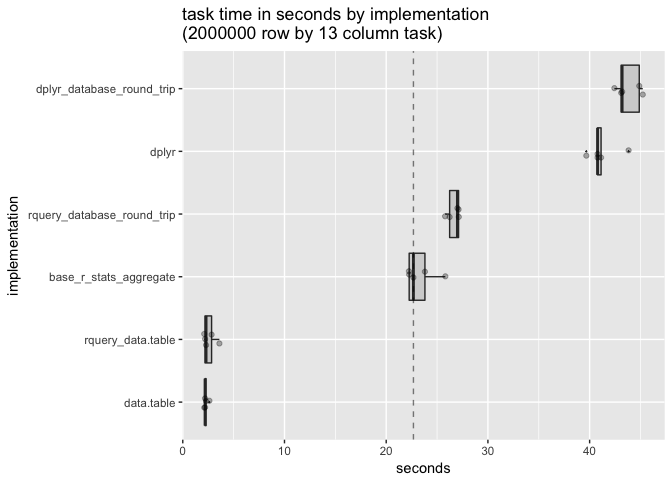
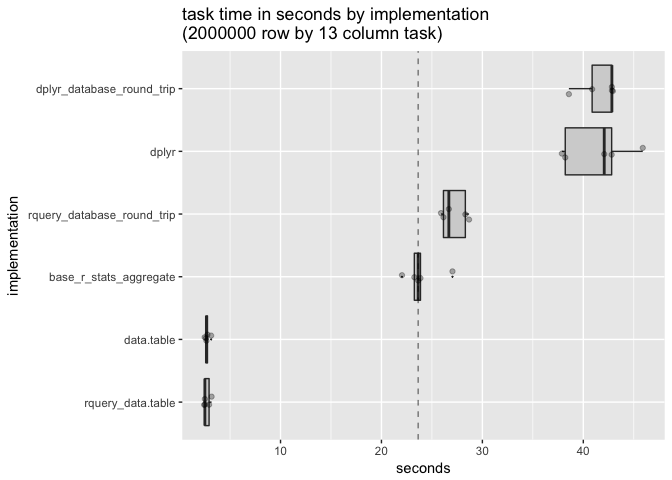
re-run on R3.5 and latest CRAN data.table

diff --git a/extras/data_table.md b/extras/data_table.md
@@ -1,7 +1,7 @@
 data.table backend for rquery
 ================
 John Mount, Win-Vector LLC
-05/31/2018
+06/01/2018
 
 We can work an example similar to the [`rquery`](https://winvector.github.io/rquery/) [example](https://winvector.github.io/rquery/index.html) using a [`data.table`](http://r-datatable.com/) back-end ([`rqdatatable`](https://github.com/WinVector/rqdatatable)).
 
@@ -49,7 +49,7 @@ packageVersion("dplyr")
 packageVersion("data.table")
 ```
 
-    ## [1] '1.10.4.3'
+    ## [1] '1.11.4'
 
 ``` r
 packageVersion("rquery")
@@ -134,8 +134,10 @@ rquery_pipeline %.>%
   DiagrammeR::grViz(.)
 ```
 
-![](data_table_files/figure-markdown_github/printrqueryp-1.png)
+<!--html_preserve-->
 
+<script type="application/json" data-for="htmlwidget-a953ff6e9c99ea0b2309">{"x":{"diagram":"\ndigraph rquery_optree {\n  graph [ layout = dot, rankdir = TB, overlap = prism, compound = true, nodesep = .5, ranksep = .25]\n  edge [decorate = true, arrowhead = normal]\n  node [style=filled, fillcolor=lightgrey]\n\nnode_1 [ shape = \"folder\" , label = \"table(dL; \\l  subjectID,\\l  surveyCategory,\\l  assessmentTotal)\\l\"]\n\nnode_2 [ shape = \"tab\" , label = \"extend(.,\\l  probability := exp(assessmentTotal * scale))\\l\"]\n\nnode_3 [ shape = \"tab\" , label = \"extend(.,\\l  probability := probability / sum(probability),\\l  p= subjectID)\\l\"]\n\nnode_4 [ shape = \"tab\" , label = \"extend(.,\\l  row_rank := rank(),\\l  p= subjectID,\\l  o= probability DESC, surveyCategory DESC)\\l\"]\n\nnode_5 [ shape = \"tab\" , label = \"select_rows(.,\\l   row_rank <= 1)\\l\"]\n\nnode_6 [ shape = \"tab\" , label = \"rename(.,\\l  c(diagnosis = surveyCategory))\\l\"]\n\nnode_7 [ shape = \"tab\" , label = \"select_columns(.,\\l   subjectID, diagnosis, probability)\\l\"]\n\nnode_8 [ shape = \"tab\" , label = \"orderby(., subjectID)\\l\"]\nnode_1 -> node_2 [ label = \".\"]\nnode_2 -> node_3 [ label = \".\"]\nnode_3 -> node_4 [ label = \".\"]\nnode_4 -> node_5 [ label = \".\"]\nnode_5 -> node_6 [ label = \".\"]\nnode_6 -> node_7 [ label = \".\"]\nnode_7 -> node_8 [ label = \".\"]\n}","config":{"engine":"dot","options":null}},"evals":[],"jsHooks":[]}</script>
+<!--/html_preserve-->
 Execute `rquery` pipeline using `data.table` as the implementation.
 
 ``` r
@@ -422,138 +424,138 @@ for(nSubj in 10^(0:7)) {
     ## [1] "nSubj 1"
     ## Unit: milliseconds
     ##                        expr        min         lq       mean     median
-    ##  rquery_database_round_trip  69.029450  74.377429  82.379580  80.474265
-    ##           rquery_data.table   7.127195   8.760327   9.518508   8.897789
-    ##                  data.table   2.051221   2.754013   2.847343   2.853673
-    ##                       dplyr   6.272380   6.516135   8.181771   7.757346
-    ##   dplyr_database_round_trip 144.512507 144.927179 165.566531 173.417670
-    ##      base_r_stats_aggregate   2.615925   2.766526   3.074400   2.816567
+    ##  rquery_database_round_trip  71.138681  83.393231  83.147045  84.833661
+    ##           rquery_data.table   9.608766   9.971618  10.323950  10.195958
+    ##                  data.table   2.075675   2.180758   2.456860   2.497990
+    ##                       dplyr   7.612825  11.489418  12.256675  13.087308
+    ##   dplyr_database_round_trip 147.132946 201.682862 209.952480 217.776187
+    ##      base_r_stats_aggregate   3.085184   3.785181   4.658687   3.806105
     ##          uq        max neval
-    ##   89.696811  98.319946     5
-    ##    9.661508  13.145722     5
-    ##    2.929362   3.648446     5
-    ##   10.109809  10.253185     5
-    ##  174.707281 190.268019     5
-    ##    3.074001   4.098979     5
+    ##   84.865362  91.504292     5
+    ##   10.318854  11.524552     5
+    ##    2.764750   2.765127     5
+    ##   13.905702  15.188124     5
+    ##  227.597322 255.573083     5
+    ##    4.969376   7.647591     5
     ## [1] "******"
     ## [1] "nSubj 10"
     ## Unit: milliseconds
     ##                        expr        min         lq       mean     median
-    ##  rquery_database_round_trip  67.156440  73.060626  82.920443  80.510089
-    ##           rquery_data.table   7.570936   8.689809   9.777107   9.030820
-    ##                  data.table   2.426472   2.456784   2.618393   2.515110
-    ##                       dplyr  10.086663  10.414506  11.512049  10.575411
-    ##   dplyr_database_round_trip 135.769876 142.734392 162.646726 159.879842
-    ##      base_r_stats_aggregate   3.549091   4.463815   4.678033   4.823753
-    ##          uq        max neval
-    ##   96.526495  97.348565     5
-    ##   10.630271  12.963699     5
-    ##    2.765184   2.928414     5
-    ##   11.969104  14.514560     5
-    ##  186.323910 188.525612     5
-    ##    5.153381   5.400124     5
+    ##  rquery_database_round_trip  67.845813  69.336879  81.562058  87.188163
+    ##           rquery_data.table   9.497021   9.934465  15.616941  10.279672
+    ##                  data.table   2.090796   2.190110   2.308872   2.361299
+    ##                       dplyr   9.452232  11.476213  30.016245  11.974590
+    ##   dplyr_database_round_trip 162.622927 186.228870 202.306599 203.067094
+    ##      base_r_stats_aggregate   4.200695   4.735195  11.830658   8.206472
+    ##         uq        max neval
+    ##   88.31182  95.127611     5
+    ##   12.34138  36.032167     5
+    ##    2.40091   2.501245     5
+    ##   12.88391 104.294283     5
+    ##  207.49438 252.119725     5
+    ##   13.50275  28.508181     5
     ## [1] "******"
     ## [1] "nSubj 100"
     ## Unit: milliseconds
     ##                        expr        min         lq       mean     median
-    ##  rquery_database_round_trip  68.280159  73.989883  73.936998  74.659266
-    ##           rquery_data.table   8.375911   8.378464  10.549381   8.692715
-    ##                  data.table   2.315128   2.681626   2.942087   2.686290
-    ##                       dplyr  10.857070  11.261897  13.411790  14.374825
-    ##   dplyr_database_round_trip 138.566279 147.701370 174.968423 194.220404
-    ##      base_r_stats_aggregate   4.273186   4.864971   5.635442   6.170974
+    ##  rquery_database_round_trip  66.815639  73.894296  79.361467  76.052675
+    ##           rquery_data.table   8.229293   8.950303  14.725861   9.802629
+    ##                  data.table   2.786475   3.068548   4.051763   3.070573
+    ##                       dplyr  10.333904  10.484546  16.072997  14.972173
+    ##   dplyr_database_round_trip 148.623101 159.382159 182.954371 200.123005
+    ##      base_r_stats_aggregate   5.082886   5.883054   6.326022   6.077374
     ##          uq        max neval
-    ##   75.820915  76.934769     5
-    ##   12.730262  14.569554     5
-    ##    2.742238   4.285151     5
-    ##   15.228917  15.336241     5
-    ##  196.047638 198.306423     5
-    ##    6.390031   6.478047     5
+    ##   78.736378 101.308346     5
+    ##   10.685754  35.961328     5
+    ##    3.503149   7.830071     5
+    ##   20.218128  24.356233     5
+    ##  201.934320 204.709268     5
+    ##    6.257049   8.329749     5
     ## [1] "******"
     ## [1] "nSubj 1000"
     ## Unit: milliseconds
     ##                        expr        min         lq       mean     median
-    ##  rquery_database_round_trip  94.986501 100.771336 118.889078 128.822785
-    ##           rquery_data.table   9.746145  10.946424  11.927772  11.016319
-    ##                  data.table   4.691801   5.407834   5.694072   5.435403
-    ##                       dplyr  42.611197  44.262719  50.811715  45.120315
-    ##   dplyr_database_round_trip 213.902981 220.829752 222.092339 222.388739
-    ##      base_r_stats_aggregate  14.211198  14.245266  19.065685  14.510214
-    ##         uq        max neval
-    ##  132.60659 137.258174     5
-    ##   11.81526  16.114708     5
-    ##    5.44712   7.488202     5
-    ##   49.51443  72.549909     5
-    ##  223.22590 230.114323     5
-    ##   25.25964  27.102103     5
+    ##  rquery_database_round_trip 127.568661 141.437378 159.243990 143.464920
+    ##           rquery_data.table  12.676699  13.250249  14.418486  13.856080
+    ##                  data.table   5.668883   6.140717   8.336774   7.738183
+    ##                       dplyr  56.862057  59.126697  60.837393  59.275752
+    ##   dplyr_database_round_trip 233.333187 251.438677 262.828636 260.351315
+    ##      base_r_stats_aggregate  14.741730  15.019510  21.130873  17.589373
+    ##          uq       max neval
+    ##  168.810764 214.93823     5
+    ##   14.798054  17.51135     5
+    ##    7.781801  14.35429     5
+    ##   61.420543  67.50192     5
+    ##  264.086126 304.93388     5
+    ##   26.282366  32.02139     5
     ## [1] "******"
     ## [1] "nSubj 10000"
     ## Unit: milliseconds
     ##                        expr       min        lq      mean    median
-    ##  rquery_database_round_trip 317.22013 318.06215 327.66363 322.86430
-    ##           rquery_data.table  31.45375  35.43023  57.98260  38.85422
-    ##                  data.table  28.94477  29.23703  33.47433  31.36060
-    ##                       dplyr 405.79107 454.09806 452.05943 457.46704
-    ##   dplyr_database_round_trip 459.03060 460.07174 477.24078 466.56148
-    ##      base_r_stats_aggregate 158.70025 160.63810 185.14380 166.09851
+    ##  rquery_database_round_trip 323.06561 324.99739 364.25126 348.38187
+    ##           rquery_data.table  44.87562  47.42099  48.44307  48.20416
+    ##                  data.table  34.68167  35.58400  43.90367  41.19149
+    ##                       dplyr 422.10237 429.92637 461.00641 463.65321
+    ##   dplyr_database_round_trip 464.34444 547.46560 597.25658 629.65887
+    ##      base_r_stats_aggregate 137.86605 152.89420 194.53529 161.97059
     ##         uq       max neval
-    ##  325.06523 355.10634     5
-    ##   45.92310 138.25168     5
-    ##   35.91055  41.91869     5
-    ##  457.64969 485.29128     5
-    ##  466.67314 533.86696     5
-    ##  219.04842 221.23373     5
+    ##  395.85655 428.95486     5
+    ##   49.75908  51.95547     5
+    ##   46.67471  61.38648     5
+    ##  490.44204 498.90806     5
+    ##  631.87214 712.94184     5
+    ##  247.05048 272.89515     5
     ## [1] "******"
     ## [1] "nSubj 1e+05"
     ## Unit: milliseconds
     ##                        expr       min        lq      mean    median
-    ##  rquery_database_round_trip 2562.9472 2638.2651 3176.6772 2638.4237
-    ##           rquery_data.table  276.6464  323.7509  330.4065  325.2370
-    ##                  data.table  290.1218  312.0355  324.5827  317.1223
-    ##                       dplyr 4124.8296 4140.0092 5096.0283 4174.3510
-    ##   dplyr_database_round_trip 3781.7411 3835.2941 4260.0795 4121.7297
-    ##      base_r_stats_aggregate 2223.9412 2257.1987 2824.7896 2260.4321
+    ##  rquery_database_round_trip 2534.0234 2542.1845 2607.5515 2605.2087
+    ##           rquery_data.table  330.9433  336.4919  350.7774  348.4246
+    ##                  data.table  329.7817  333.4134  335.8603  333.5674
+    ##                       dplyr 3812.4155 3876.5725 3987.9899 3906.9410
+    ##   dplyr_database_round_trip 3749.2049 3819.9913 4006.8039 4142.7523
+    ##      base_r_stats_aggregate 2263.6486 2300.8380 2430.0946 2365.4907
     ##         uq       max neval
-    ##  2885.0333 5158.7170     5
-    ##   344.4928  381.9053     5
-    ##   339.1800  364.4538     5
-    ##  6365.2965 6675.6551     5
-    ##  4457.4407 5104.1918     5
-    ##  2422.9427 4959.4331     5
+    ##  2661.6754 2694.6654     5
+    ##   352.9374  385.0898     5
+    ##   334.2273  348.3116     5
+    ##  3997.6523 4346.3683     5
+    ##  4151.4921 4170.5791     5
+    ##  2601.1329 2619.3627     5
     ## [1] "******"
     ## [1] "nSubj 1e+06"
     ## Unit: seconds
     ##                        expr       min        lq      mean    median
-    ##  rquery_database_round_trip 25.790816 26.236574 26.656177 27.000283
-    ##           rquery_data.table  2.107890  2.192299  2.604533  2.289485
-    ##                  data.table  2.115763  2.188365  2.279532  2.190283
-    ##                       dplyr 39.675550 40.776398 41.237920 40.779588
-    ##   dplyr_database_round_trip 42.433460 43.103537 43.767424 43.196339
-    ##      base_r_stats_aggregate 22.234256 22.258174 23.358680 22.677609
+    ##  rquery_database_round_trip 25.897362 26.143649 27.142575 26.677837
+    ##           rquery_data.table  2.438871  2.500997  2.706722  2.503838
+    ##                  data.table  2.483940  2.610533  2.727376  2.655502
+    ##                       dplyr 37.874685 38.211236 41.371857 42.072642
+    ##   dplyr_database_round_trip 38.570147 40.874372 41.607898 42.832009
+    ##      base_r_stats_aggregate 22.033998 23.257504 23.966391 23.637800
     ##         uq       max neval
-    ##  27.115695 27.137518     5
-    ##   2.833142  3.599851     5
-    ##   2.285832  2.617417     5
-    ##  41.125615 43.832448     5
-    ##  44.879094 45.224692     5
-    ##  23.807583 25.815779     5
+    ##  28.312361 28.681667     5
+    ##   2.920099  3.169806     5
+    ##   2.760413  3.126494     5
+    ##  42.809214 45.891508     5
+    ##  42.835209 42.927754     5
+    ##  23.866012 27.036639     5
     ## [1] "******"
     ## [1] "nSubj 1e+07"
     ## Unit: seconds
     ##                        expr       min        lq      mean    median
-    ##  rquery_database_round_trip 299.42903 321.26485 323.47056 324.49628
-    ##           rquery_data.table  20.52984  23.37411  31.57351  25.49861
-    ##                  data.table  24.10960  24.27099  30.34697  26.06031
-    ##                       dplyr 408.80455 418.61819 453.77822 470.67962
-    ##   dplyr_database_round_trip 467.47587 470.47306 504.37742 512.16376
-    ##      base_r_stats_aggregate 364.34942 376.03824 420.56751 405.05481
+    ##  rquery_database_round_trip 276.57327 284.39720 295.60391 289.33218
+    ##           rquery_data.table  24.89220  26.62269  30.93817  28.65483
+    ##                  data.table  26.70312  30.98182  34.86265  33.73271
+    ##                       dplyr 381.63089 419.96944 435.00829 428.00963
+    ##   dplyr_database_round_trip 440.34283 453.07472 469.02831 459.56673
+    ##      base_r_stats_aggregate 348.90100 351.54848 387.53749 394.07234
     ##         uq       max neval
-    ##  328.53626 343.62639     5
-    ##   35.75514  52.70985     5
-    ##   38.11929  39.17465     5
-    ##  478.46271 492.32604     5
-    ##  531.76685 540.00756     5
-    ##  471.07160 486.32345     5
+    ##  302.13699 325.57989     5
+    ##   34.82853  39.69262     5
+    ##   37.24384  45.65175     5
+    ##  447.89854 497.53295     5
+    ##  477.89150 514.26578     5
+    ##  412.54710 430.61854     5
 
 ``` r
 saveRDS(all_timings, "all_timings.RDS")
@@ -583,12 +585,12 @@ knitr::kable(means)
 
 | expr                          |  mean\_time\_seconds|
 |:------------------------------|--------------------:|
-| data.table                    |             30.34697|
-| rquery\_data.table            |             31.57351|
-| rquery\_database\_round\_trip |            323.47056|
-| base\_r\_stats\_aggregate     |            420.56751|
-| dplyr                         |            453.77822|
-| dplyr\_database\_round\_trip  |            504.37742|
+| rquery\_data.table            |             30.93817|
+| data.table                    |             34.86265|
+| rquery\_database\_round\_trip |            295.60391|
+| base\_r\_stats\_aggregate     |            387.53749|
+| dplyr                         |            435.00829|
+| dplyr\_database\_round\_trip  |            469.02831|
 
 ``` r
 timings <- as.data.frame(timings)

diff --git a/extras/data_table_replot.md b/extras/data_table_replot.md
@@ -1,7 +1,7 @@
 data.table backend for rquery replot
 ================
 John Mount, Win-Vector LLC
-05/31/2018
+06/01/2018
 
 We can work an example similar to the [`rquery`](https://winvector.github.io/rquery/) [example](https://winvector.github.io/rquery/index.html) using a [`data.table`](http://r-datatable.com/) back-end ([`rqdatatable`](https://github.com/WinVector/rqdatatable)).
 
@@ -53,12 +53,12 @@ knitr::kable(means)
 
 | expr                          |  mean\_time\_seconds|
 |:------------------------------|--------------------:|
-| data.table                    |             2.279532|
-| rquery\_data.table            |             2.604534|
-| base\_r\_stats\_aggregate     |            23.358680|
-| rquery\_database\_round\_trip |            26.656177|
-| dplyr                         |            41.237920|
-| dplyr\_database\_round\_trip  |            43.767424|
+| rquery\_data.table            |             2.706722|
+| data.table                    |             2.727376|
+| base\_r\_stats\_aggregate     |            23.966391|
+| rquery\_database\_round\_trip |            27.142575|
+| dplyr                         |            41.371857|
+| dplyr\_database\_round\_trip  |            41.607898|
 
 ``` r
 timings <- as.data.frame(timings)
